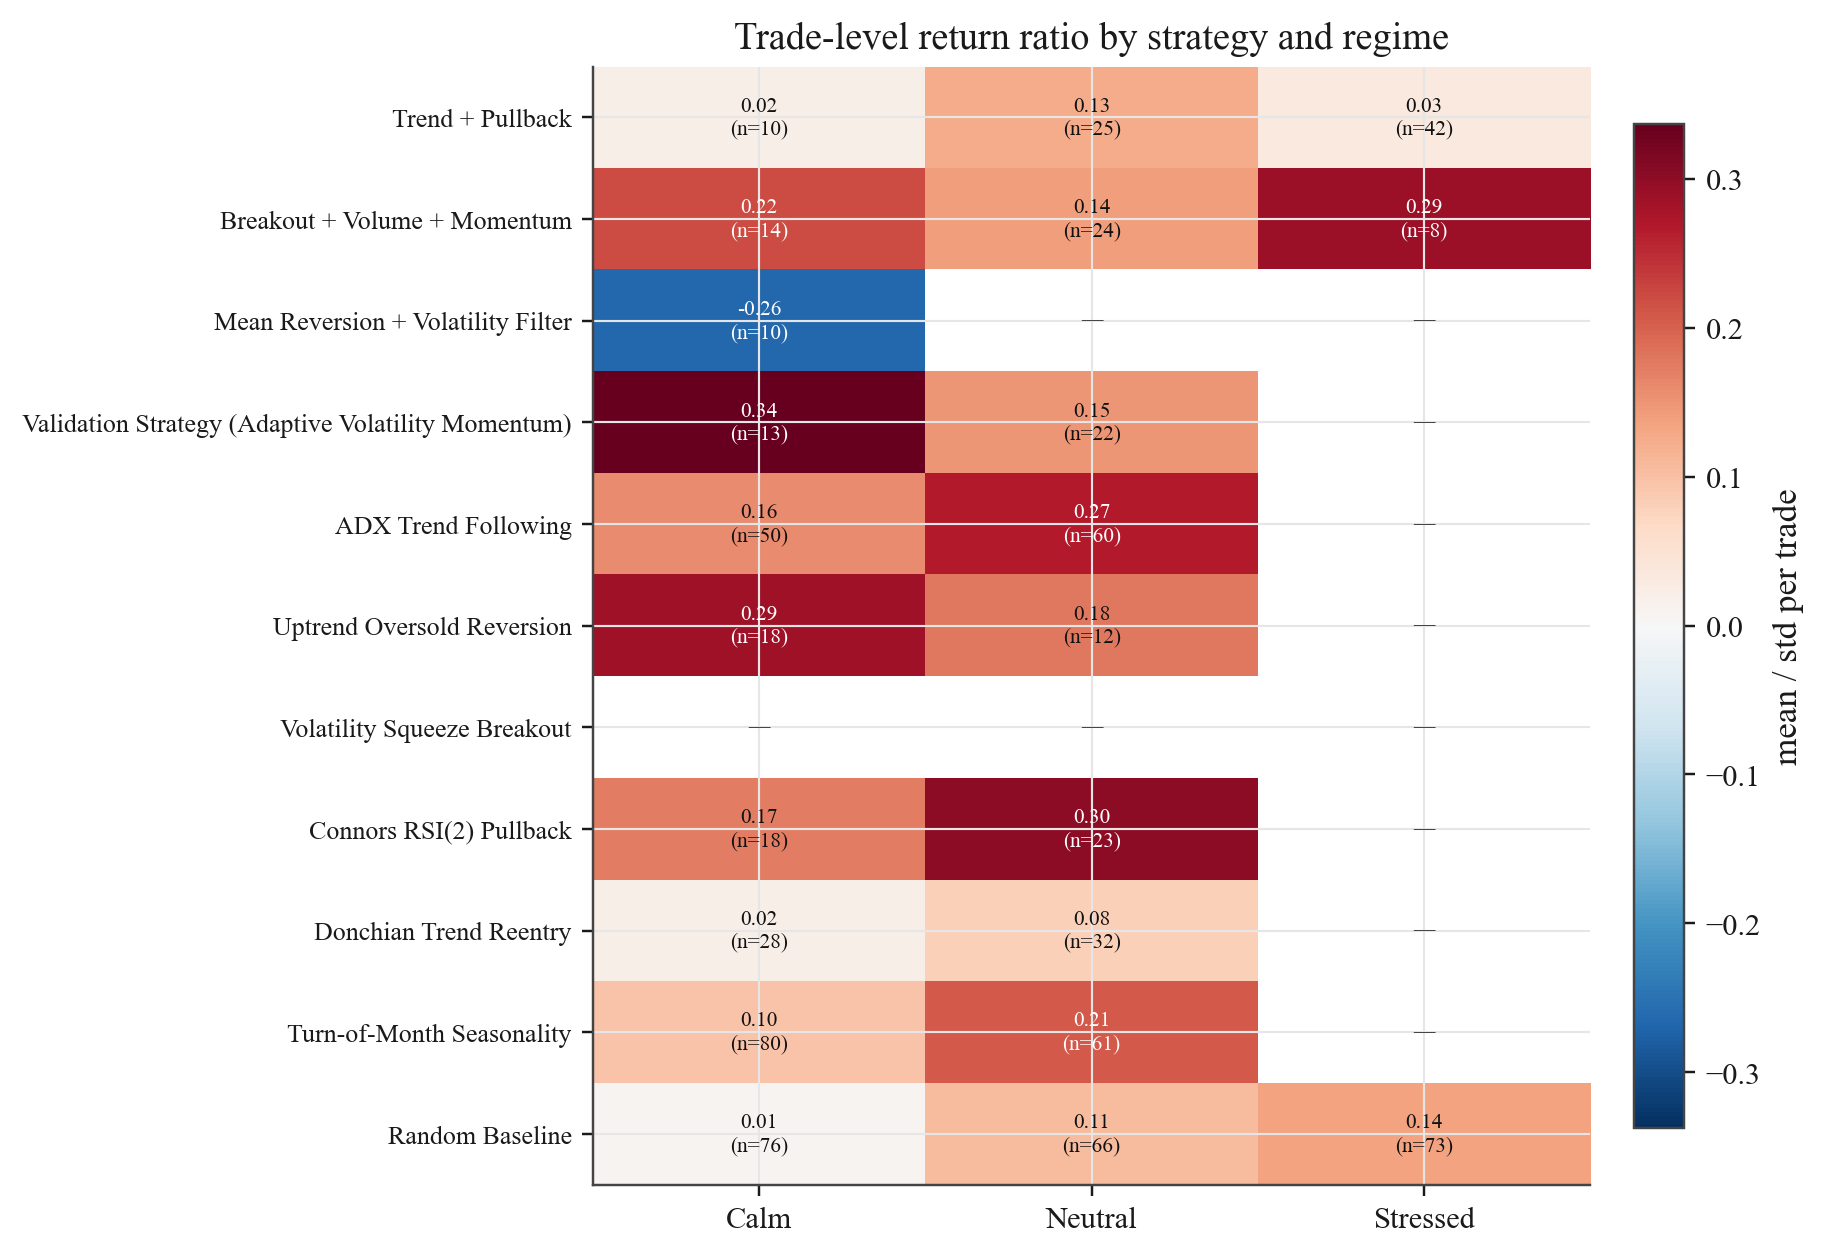
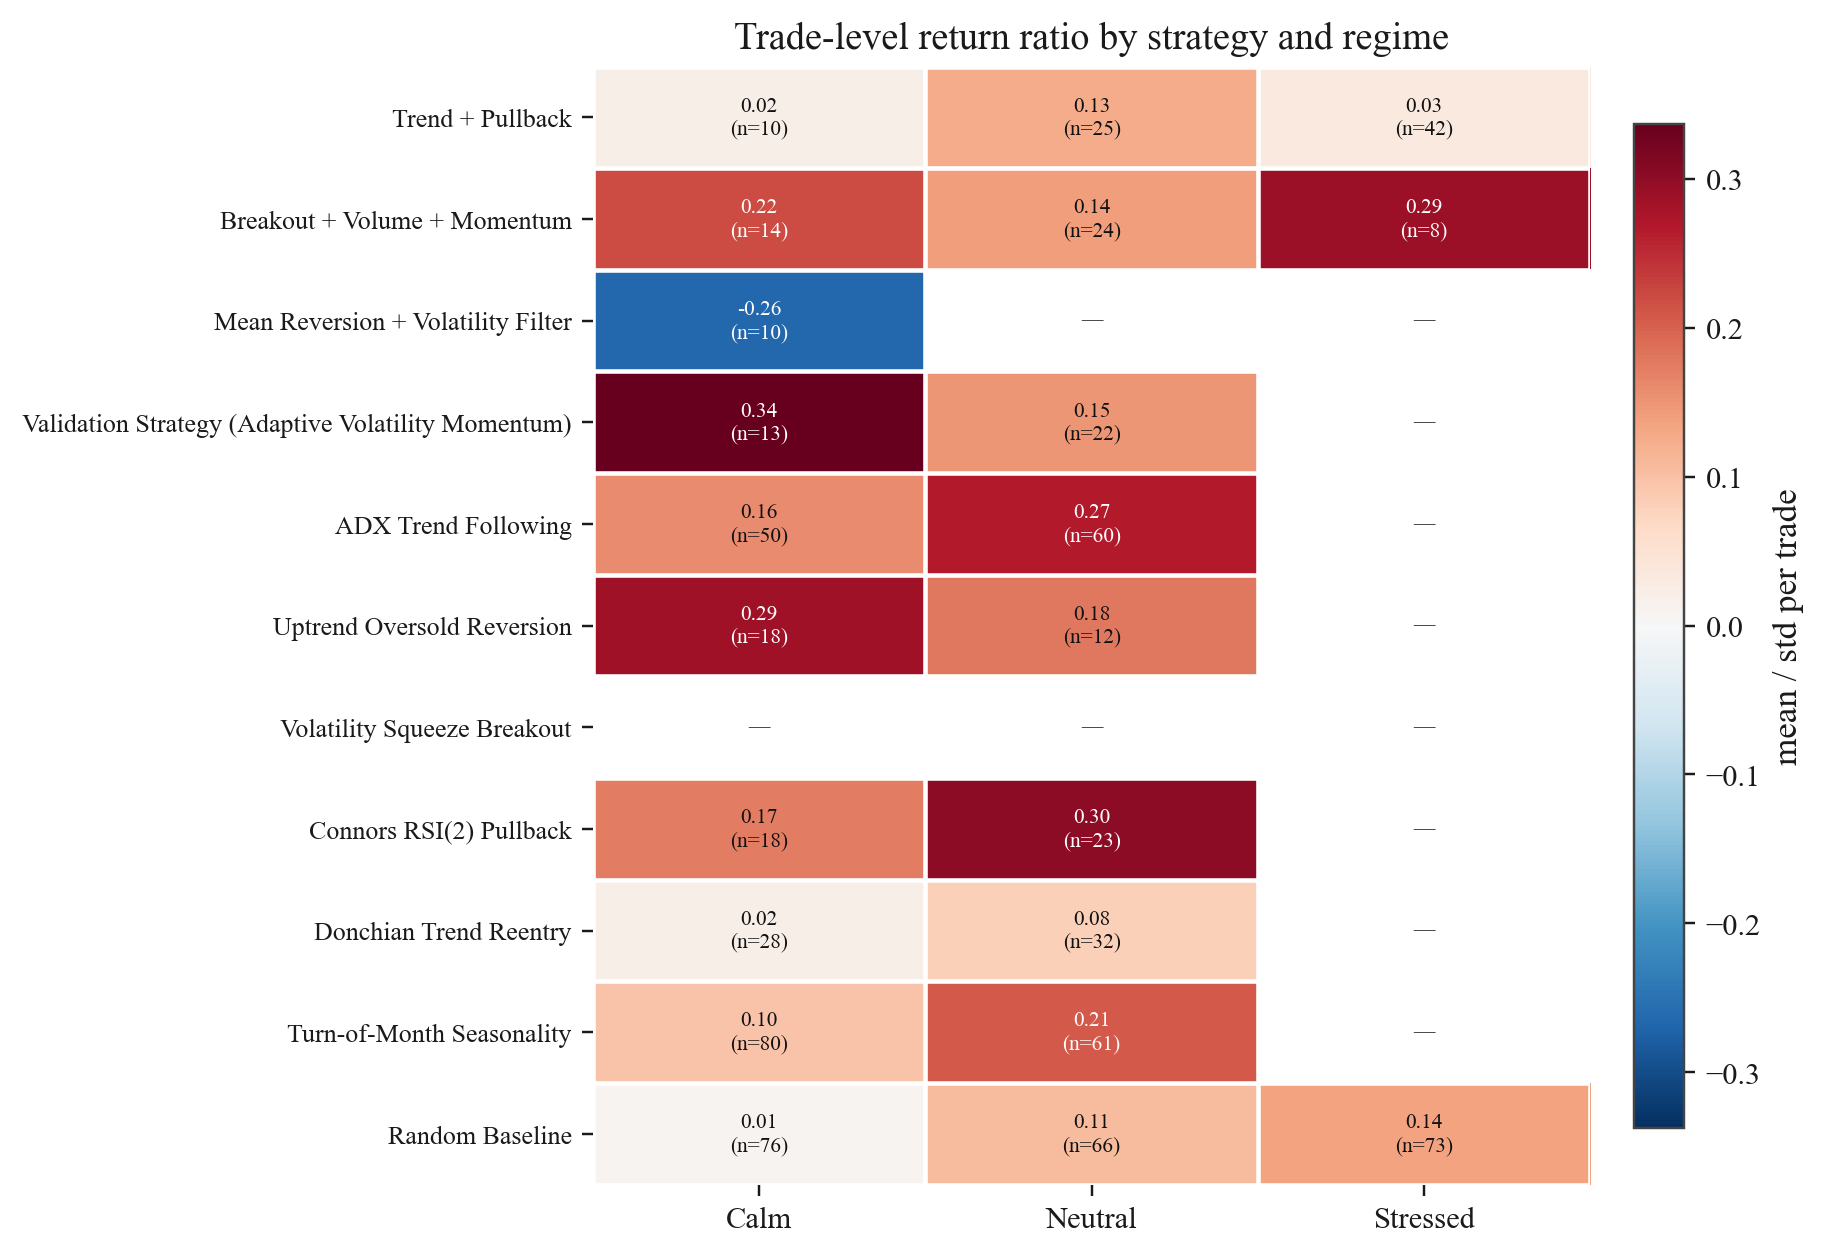
Fix regime heatmap: remove grid bleed-through, add clean cell separators

diff --git a/regenerate_gallery.py b/regenerate_gallery.py
@@ -1,0 +1,254 @@
+"""Regenerate the GC=F figure gallery at publication quality from canonical data.
+
+Replaces the supplied raster figures (Figure_1..18) with clean, consistent,
+serif-typeset charts produced directly from the canonical trade logs and the
+structure-preserving null, using the same seed-42 spawn protocol and default
+execution-cost model as the pipeline. The regenerated statistics are checked to
+reproduce the published Monte Carlo distribution table; the script aborts on any
+material mismatch so the figures can never silently drift from the text.
+
+Outputs (Charts/): mc_<agent>.png x11, rcsi_by_strategy.png, pvalue_by_strategy.png,
+regime_heatmap.png, rcsi_robustness.png, percentile_robustness.png, equity_curve.png.
+"""
+
+from __future__ import annotations
+
+import os
+import sys
+from pathlib import Path
+
+os.environ.setdefault("TICKER", "GC=F")
+
+import numpy as np
+import pandas as pd
+import matplotlib
+matplotlib.use("Agg")
+import matplotlib.pyplot as plt
+from matplotlib.colors import TwoSlopeNorm
+
+ROOT = Path(__file__).resolve().parents[1]
+CODE = ROOT / "Code"
+if str(CODE) not in sys.path:
+    sys.path.insert(0, str(CODE))
+
+import monte_carlo as mc
+from strategy_config import AGENT_ORDER, AGENT_DISPLAY_NAMES
+from pub_style import use_pub_style, BLUE, GREEN, RED, GREY, GOLD
+
+use_pub_style()
+D = ROOT / "Data_Clean"
+C = ROOT / "Charts"
+TICKER = "GC=F"
+
+# published Monte Carlo distribution table (tab:mc) for the faithfulness check
+TAB_MC = {  # display: (actual, median, p5, p95, p_value, percentile)
+    "Trend + Pullback": (0.0832, 0.4013, -0.0611, 1.0725, 0.8700, 13.0),
+    "ADX Trend Following": (0.8032, 0.3705, -0.0928, 1.0660, 0.1414, 85.9),
+    "Volatility Squeeze Breakout": (0.0649, 0.0107, -0.0483, 0.0655, 0.0534, 94.7),
+    "Connors RSI(2) Pullback": (0.1184, 0.0216, -0.1112, 0.1736, 0.1428, 85.7),
+    "Random Baseline": (0.6011, 0.9381, 0.1276, 2.3314, 0.7103, 29.0),
+}
+
+
+def compute():
+    market_df = mc.load_market_data(D / f"{TICKER}_regimes.csv")
+    children = np.random.SeedSequence(mc.SEED).spawn(len(AGENT_ORDER))
+    rows = []
+    for agent, child in zip(AGENT_ORDER, children):
+        input_path = mc.ensure_trade_file_exists(TICKER, agent)
+        trade_df = mc.load_trade_data(input_path, allow_empty=True)
+        if trade_df.empty:
+            continue
+        rng = mc.build_random_generator(reproducible=mc.REPRODUCIBLE,
+                                        seed=int(child.generate_state(1, dtype=np.uint64)[0]))
+        raw = trade_df["return"].to_numpy(dtype=float)
+        adj = mc.adjust_trade_returns(raw, mc.TRANSACTION_COST, input_path)
+        actual = mc.calculate_cumulative_return_from_log_returns(mc.convert_to_log_returns(adj))
+        sim, _ = mc.simulate_agent_null_cumulative_returns(
+            agent_name=agent, current_ticker=TICKER, trade_df=trade_df, market_df=market_df,
+            input_path=input_path, simulation_count=mc.NUMBER_OF_SIMULATIONS, rng=rng)
+        s = sim.to_numpy(dtype=float)
+        rows.append(dict(agent=agent, display=AGENT_DISPLAY_NAMES.get(agent, agent),
+                         actual=actual, sim=s, median=float(np.median(s)),
+                         p5=float(np.percentile(s, 5)), p95=float(np.percentile(s, 95)),
+                         mean=float(s.mean()),
+                         p=mc.calculate_p_value(s, actual),
+                         pct=mc.calculate_actual_percentile(s, actual),
+                         n=int(len(trade_df))))
+    return market_df, rows
+
+
+def verify(rows):
+    ok = True
+    by = {r["display"]: r for r in rows}
+    for disp, (a, med, p5, p95, p, pct) in TAB_MC.items():
+        r = by.get(disp)
+        if r is None:
+            print(f"  MISSING {disp}"); ok = False; continue
+        checks = [abs(r["actual"]-a) < 0.005, abs(r["median"]-med) < 0.02,
+                  abs(r["p"]-p) < 0.02, abs(r["pct"]-pct) < 1.5]
+        tag = "OK " if all(checks) else "XX "
+        if not all(checks):
+            print(f"  {tag}{disp}: actual {r['actual']:.4f}/{a} median {r['median']:.3f}/{med} "
+                  f"p {r['p']:.3f}/{p} pct {r['pct']:.1f}/{pct}")
+            ok = False
+    print("GALLERY FAITHFULNESS:", "ALL PASS" if ok else "MISMATCH -- aborting figure write")
+    return ok
+
+
+def mc_histograms(rows):
+    for r in rows:
+        s = r["sim"]
+        fig, ax = plt.subplots(figsize=(6.6, 4.0))
+        ax.hist(s, bins=55, color=GREY, alpha=0.8, edgecolor="white", linewidth=0.3)
+        ax.axvspan(r["p5"], r["p95"], color=BLUE, alpha=0.07)
+        ax.axvline(r["median"], color="#555555", ls=":", lw=1.2, label="null median")
+        col = GREEN if r["actual"] >= r["median"] else RED
+        ax.axvline(r["actual"], color=col, lw=2.4,
+                   label=f"realized ($p={r['p']:.3f}$, pct {r['pct']:.0f})")
+        ax.set_xlabel("cumulative return"); ax.set_ylabel("simulated schedules")
+        ax.set_title(f"{r['display']} ({r['n']} trades): realized vs. structure-preserving null")
+        ax.legend(loc="upper right", fontsize=8.5)
+        fig.savefig(C / f"mc_{r['agent']}.png"); plt.close(fig)
+
+
+def bars(rows):
+    rows_s = rows
+    disp = [r["display"] for r in rows_s]
+    x = np.arange(len(rows_s))
+    # RCSI_z bar
+    z = [(r["actual"] - r["mean"]) / r["sim"].std() for r in rows_s]
+    fig, ax = plt.subplots(figsize=(8.4, 4.4))
+    ax.bar(x, z, color=[GREEN if v >= 0 else RED for v in z], alpha=0.85)
+    ax.axhline(0, color="#444", lw=0.8)
+    ax.set_xticks(x); ax.set_xticklabels(disp, rotation=40, ha="right", fontsize=8)
+    ax.set_ylabel(r"standardized conditional excess (RCSI$_z$)")
+    ax.set_title("Standardized conditional excess by strategy (GC=F, daily)")
+    fig.savefig(C / "rcsi_by_strategy.png"); plt.close(fig)
+    # p-value bar
+    pv = [r["p"] for r in rows_s]
+    fig, ax = plt.subplots(figsize=(8.4, 4.4))
+    ax.bar(x, pv, color=BLUE, alpha=0.85)
+    ax.axhline(0.05, color=RED, ls="--", lw=1.3, label="$p=0.05$")
+    ax.set_xticks(x); ax.set_xticklabels(disp, rotation=40, ha="right", fontsize=8)
+    ax.set_ylabel("one-sided Monte Carlo $p$-value")
+    ax.set_title("Entry-placement $p$-values by strategy (none crosses 0.05)")
+    ax.legend()
+    fig.savefig(C / "pvalue_by_strategy.png"); plt.close(fig)
+
+
+def robustness():
+    f = D / "GC=F_monte_carlo_robustness_summary.csv"
+    if not f.exists():
+        print("  (robustness summary CSV absent; skipping robustness charts)"); return
+    rb = pd.read_csv(f)
+    name_col = "agent" if "agent" in rb.columns else rb.columns[0]
+    def col(*cands):
+        for c in cands:
+            if c in rb.columns:
+                return c
+        return None
+    rcsi_m = col("mean_RCSI", "RCSI_mean", "rcsi_mean")
+    rcsi_s = col("std_RCSI", "RCSI_std", "rcsi_std")
+    pct_m = col("mean_actual_percentile", "percentile_mean", "mean_percentile")
+    pct_s = col("std_actual_percentile", "percentile_std", "std_percentile")
+    disp = [AGENT_DISPLAY_NAMES.get(a, a) for a in rb[name_col]]
+    x = np.arange(len(rb))
+    if rcsi_m and rcsi_s:
+        fig, ax = plt.subplots(figsize=(8.4, 4.4))
+        ax.bar(x, rb[rcsi_m], yerr=rb[rcsi_s], color=BLUE, alpha=0.85,
+               error_kw=dict(ecolor="#444", lw=1, capsize=3))
+        ax.axhline(0, color="#444", lw=0.8)
+        ax.set_xticks(x); ax.set_xticklabels(disp, rotation=40, ha="right", fontsize=8)
+        ax.set_ylabel(r"conditional excess return (mean $\pm$ SD, 100 seeds)")
+        ax.set_title("Seed robustness of the conditional excess return")
+        fig.savefig(C / "rcsi_robustness.png"); plt.close(fig)
+    if pct_m and pct_s:
+        fig, ax = plt.subplots(figsize=(8.4, 4.4))
+        ax.bar(x, rb[pct_m], yerr=rb[pct_s], color=GREEN, alpha=0.85,
+               error_kw=dict(ecolor="#444", lw=1, capsize=3))
+        ax.axhline(50, color=GREY, ls=":", lw=1)
+        ax.set_xticks(x); ax.set_xticklabels(disp, rotation=40, ha="right", fontsize=8)
+        ax.set_ylabel(r"null percentile (mean $\pm$ SD, 100 seeds)")
+        ax.set_title("Seed robustness of the null percentile")
+        fig.savefig(C / "percentile_robustness.png"); plt.close(fig)
+
+
+def regime_heatmap():
+    """Trade-level return ratio (mean/std) per strategy x regime, from the trade logs."""
+    order = ["calm", "neutral", "stressed"]
+    data = {}
+    counts = {}
+    for agent in AGENT_ORDER:
+        try:
+            tp = mc.ensure_trade_file_exists(TICKER, agent)
+            td = mc.load_trade_data(tp, allow_empty=True)
+        except Exception:
+            continue
+        if td.empty or "regime_at_entry" not in td.columns:
+            continue
+        disp = AGENT_DISPLAY_NAMES.get(agent, agent)
+        row = []; crow = []
+        for reg in order:
+            sub = td[td["regime_at_entry"].astype(str).str.lower() == reg]["return"].to_numpy(float)
+            if len(sub) >= 5 and sub.std() > 0:
+                row.append(sub.mean() / sub.std()); crow.append(len(sub))
+            else:
+                row.append(np.nan); crow.append(len(sub))
+        data[disp] = row; counts[disp] = crow
+    if not data:
+        return
+    M = np.array(list(data.values()))
+    labels = list(data.keys())
+    fig, ax = plt.subplots(figsize=(6.4, 6.6))
+    ax.grid(False)
+    for sp in ax.spines.values():
+        sp.set_visible(False)
+    vmax = np.nanmax(np.abs(M))
+    norm = TwoSlopeNorm(vmin=-vmax, vcenter=0.0, vmax=vmax)
+    im = ax.imshow(M, cmap="RdBu_r", norm=norm, aspect="auto")
+    # thin white separators between cells (instead of the page grid showing through)
+    ax.set_xticks(np.arange(-0.5, 3, 1), minor=True)
+    ax.set_yticks(np.arange(-0.5, len(labels), 1), minor=True)
+    ax.grid(which="minor", color="white", linewidth=1.5)
+    ax.tick_params(which="minor", length=0)
+    ax.set_xticks(range(3)); ax.set_xticklabels([r.capitalize() for r in order])
+    ax.set_yticks(range(len(labels))); ax.set_yticklabels(labels, fontsize=8.5)
+    for i in range(len(labels)):
+        for j in range(3):
+            v = M[i, j]
+            txt = "—" if np.isnan(v) else f"{v:.2f}\n(n={counts[labels[i]][j]})"
+            ax.text(j, i, txt, ha="center", va="center", fontsize=7,
+                    color="#111" if (np.isnan(v) or abs(v) < 0.6*vmax) else "white")
+    ax.set_title("Trade-level return ratio by strategy and regime")
+    fig.colorbar(im, ax=ax, fraction=0.046, pad=0.04, label="mean / std per trade")
+    fig.savefig(C / "regime_heatmap.png"); plt.close(fig)
+
+
+def equity_curve(market_df):
+    w = market_df[(market_df["Date"] >= pd.Timestamp("2002-03-04")) &
+                  (market_df["Date"] <= pd.Timestamp("2026-04-02"))]
+    px = w["Close"].to_numpy(float)
+    bh = px / px[0]
+    fig, ax = plt.subplots(figsize=(8.2, 4.2))
+    ax.plot(w["Date"], bh, color=GOLD, lw=1.6, label="GC=F buy-and-hold (close)")
+    ax.set_ylabel("growth of \\$1"); ax.set_xlabel("")
+    ax.set_title("GC=F price path, 2002--2026 (the fixed path all schedules are priced on)")
+    ax.legend()
+    fig.savefig(C / "equity_curve.png"); plt.close(fig)
+
+
+def main():
+    market_df, rows = compute()
+    print("=== per-strategy stats (regenerated) ===")
+    for r in rows:
+        print(f"  {r['display']:<32} actual {r['actual']:+.4f}  median {r['median']:+.4f}  "
+              f"p {r['p']:.4f}  pct {r['pct']:.1f}  n {r['n']}")
+    if not verify(rows):
+        sys.exit("Faithfulness check failed; not writing figures.")
+    mc_histograms(rows); bars(rows); robustness(); regime_heatmap(); equity_curve(market_df)
+    print(f"wrote {len(rows)} MC histograms + bars + robustness + heatmap + equity curve to Charts/")
+
+
+if __name__ == "__main__":
+    main()